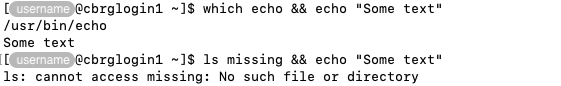
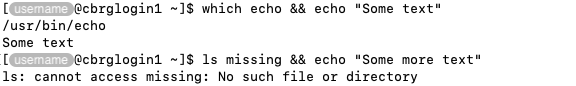
demo or or

diff --git a/content/en/docs/linux/working/combine-commands/index.md b/content/en/docs/linux/working/combine-commands/index.md
@@ -61,9 +61,19 @@ completes successfully (first) or fails (second):
 
 ```bash
 which echo && echo "Some text"
-ls missing && echo "Some text"
+ls missing && echo "Some more text"
 ```
 
-![Declaring multiple commands in a single statement.](command-and-and.png)
+![Executing a command only when the previous command succeeded.](command-and-and.png)
+
+Conversely, the operator `||` cab be used to execute a command only if the previous
+command fails.
+
+```bash
+which echo || echo "Some text"
+ls missing || echo "Some more text"
+```
+
+![Executing a command only when the previous command failed.](command-or-or.png)
 
 <!-- Link definitions -->
